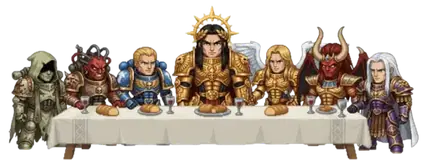
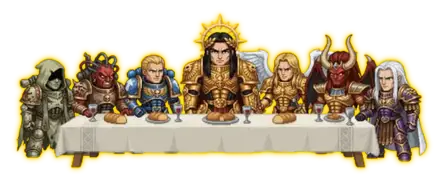
Game: bake the day-off feast's gold glow into its art too; fight cloud on top of everything (z-index 30)

diff --git a/docs/game.js b/docs/game.js
@@ -57,11 +57,11 @@
   .wg .wg-closed.on { display: block; }
   /* 休市日（跟招牌同時段）：上半部換成大家一起吃飯的休假圖，神祇和 VS／勝敗印章都不出現。
      桌腳站在亞空間條上緣（跟神祇一樣留 8px），寬度不超過卡片 92% */
-  .wg .wg-dayoff { display: none; left: 50%; bottom: calc(32% + 4px); height: calc(68% - 10px); max-width: 92%; object-fit: contain; transform: translateX(-50%); z-index: 2; }
-  .wg.wg-off .wg-dayoff { display: block; filter: drop-shadow(0 0 1px #ffd700) drop-shadow(0 0 3px #ffd700); }  /* 薄薄一層金光，跟背景分開 */
+  .wg .wg-dayoff { display: none; left: 50%; bottom: calc(32% + 4px - (68% - 10px) * .05); height: calc((68% - 10px) * 1.1); max-width: 100%; object-fit: contain; transform: translateX(-50%); z-index: 2; }
+  .wg.wg-off .wg-dayoff { display: block; }  /* 薄薄一層金光（跟背景分開）畫在圖裡、四邊各多 5%：圖放大 1.1 倍、往下移抵銷 */
   .wg.wg-off .wg-god, .wg.wg-off .wg-result { visibility: hidden; }
   .wg.wg-off .wg-ticker { display: none; }  /* 休市：跑馬燈那列整條拿掉，卡片跟著變矮 */  /* 要寫 .wg 開頭：不然會被 .wg img { display: block } 蓋過，天天都出現 */
-  .wg-cloud { bottom: -8%; height: 48%;  /* 往下沉一點（下緣被卡片切掉），雲跟部隊腳下同高 */ transform: translateX(-50%); transition: left 2s ease-in-out, opacity 1s; z-index: 3; }  /* 煙塵在兩軍前面 */
+  .wg-cloud { bottom: -8%; height: 48%;  /* 往下沉一點（下緣被卡片切掉），雲跟部隊腳下同高 */ transform: translateX(-50%); transition: left 2s ease-in-out, opacity 1s; z-index: 30; }  /* 煙塵最上層：蓋在所有部隊、招式前面 */
   /* 神祇一直發光（帝皇金、大不淨者綠）；部隊只在大漲／大跌（±0.5% 以上）時發光 */
   /* 神祇的光暈（帝皇金、大不淨者綠）已經畫在圖裡，不用 CSS filter（動圖每格重算很吃 CPU） */
   .wg-march .wg-unit { animation: wg-step .5s steps(2) infinite; }

diff --git a/docs/index.html b/docs/index.html
@@ -942,7 +942,7 @@
 
   // 小遊戲：第一次要用時才載入，之後每次重畫把同一個遊戲元素搬回原位。主帳號是戰鎚（docs/game.js），
   // love 帳號是自己的遊戲（docs/love.js、素材在 docs/love/）：只載入登入帳號的那一套，另一套的檔案完全不抓
-  const GAMES = { owner: ['game.js?v=71', 'WarGame'], love: ['love.js?v=16', 'LoveGame'] };
+  const GAMES = { owner: ['game.js?v=72', 'WarGame'], love: ['love.js?v=16', 'LoveGame'] };
   const gameLoading = {};
   function attachGame(d) {
     const [src, name] = GAMES[window.PrivateVault?.profile?.()] ?? GAMES.owner;

diff --git a/scripts/build_game_assets.py b/scripts/build_game_assets.py
@@ -27,15 +27,20 @@ GLOW = {'Emperor': (255, 215, 0), 'Emperor_win': (255, 215, 0), 'Emperor_loss': 
 GLOW_PAD, GLOW_SIGMA, GLOW_GAIN = 24, 10, 1.7  # 手機上神祇約 73px 高：σ 10、加強 1.7 倍，跟原本 CSS 的 drop-shadow(0 0 6px) 差不多
 
 
-def glow(frame, color):
+# 休假吃飯圖：薄薄一層金光（原本 CSS 的 drop-shadow 1px＋3px），四邊各留 8px（圖高 160 的 5%）
+DAYOFF_PAD = 8
+
+
+def glow(frame, color, pad=GLOW_PAD, layers=((GLOW_SIGMA, GLOW_GAIN),)):
     w, h = frame.size
-    out = Image.new('RGBA', (w + 2 * GLOW_PAD, h + 2 * GLOW_PAD), (0, 0, 0, 0))
+    out = Image.new('RGBA', (w + 2 * pad, h + 2 * pad), (0, 0, 0, 0))
     a = Image.new('L', out.size, 0)
-    a.paste(frame.getchannel('A'), (GLOW_PAD, GLOW_PAD))
-    halo = Image.new('RGBA', out.size, color + (0,))
-    halo.putalpha(a.filter(ImageFilter.GaussianBlur(GLOW_SIGMA)).point(lambda v: min(255, int(v * GLOW_GAIN))))
-    out.alpha_composite(halo)
-    out.alpha_composite(frame, (GLOW_PAD, GLOW_PAD))
+    a.paste(frame.getchannel('A'), (pad, pad))
+    for sigma, gain in layers:
+        halo = Image.new('RGBA', out.size, color + (0,))
+        halo.putalpha(a.filter(ImageFilter.GaussianBlur(sigma)).point(lambda v, g=gain: min(255, int(v * g))))
+        out.alpha_composite(halo)
+    out.alpha_composite(frame, (pad, pad))
     return out
 
 
@@ -70,7 +75,9 @@ def build(name, h, OUT):
     box = trim_box(im) if im.mode in ('RGBA', 'P', 'LA') or 'transparency' in im.info else None
     crop = (lambda x: x.crop(box)) if box else (lambda x: x)
     # 神祇：裁、縮好之後才加光暈（光暈的大小才跟顯示大小對得上）
-    finish = (lambda f: glow(f, GLOW[name])) if name in GLOW else (lambda f: f)
+    finish = ((lambda f: glow(f, GLOW[name])) if name in GLOW
+              else (lambda f: glow(f, (255, 215, 0), DAYOFF_PAD, ((1, 2.0), (3, 1.4)))) if name == 'day_off'
+              else (lambda f: f))
     if n > 1:
         frames, durs = [], []
         sp = name.endswith('_sp')
